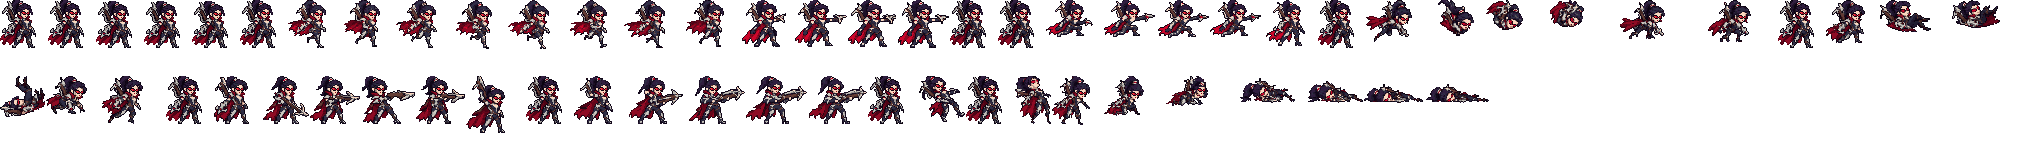
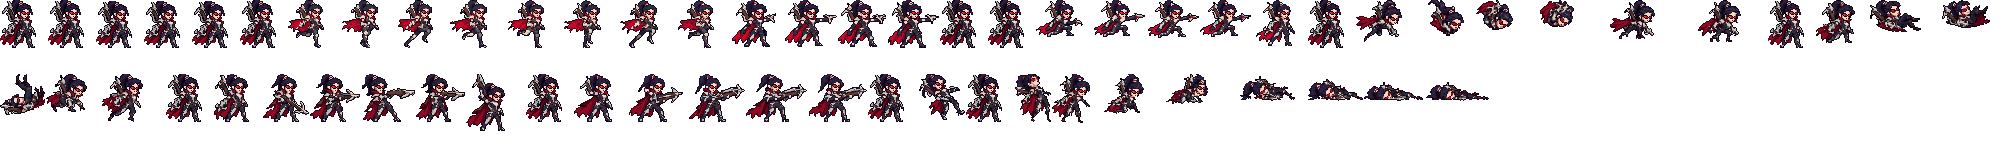
Vayne: the run redrawn - her legs change step; the effects pack
Codex's first run had the same legs in all 8 frames (the near leg
planted, the far one kicked up behind: "走路没有交叉步"). The redo pack
(MODEL_RUN_REDO.md) gave League's run with the two legs painted apart
(native_pose.py --parts on l_thigh / r_thigh) and a per-frame table;
Codex's redraw has the near leg planted in frames 8, 1, 2, the far one
in 4, 5, 6 and the knees crossing in 2-3 and 6-7, as League's does.
export_vayne.py exports it like the other strips (Codex's head joined
to the neck, the design's face pasted) and now stands the run on the
feet line too: the redrawn head sits 1-2 rows higher over the soles.

PROMPTS.md: the 14 effects for Codex (step 3).

Changed region(s): [[0.0, 0.0, 0.9885, 0.303], [0.0, 0.4545, 0.7414, 0.7879]]

diff --git a/tools/art/export_vayne.py b/tools/art/export_vayne.py
@@ -206,12 +206,11 @@ def export_cell(a, k, pal, bx, eye, pitch, tag, i, n, piv, target_x, design_c, f
     if tag in ("skill", "skill_back") and 1 <= i <= 3:
         target_bottom = 79
     target_ex = piv[0] - 7 if tag == "run" else round(target_x) - 9
-    target_ey = round(target_bottom - (bx[3] - 1 - ey) / pitch)
-    if tag == "run":
-        target_ey = 47 + (1 if i % 4 == 1 else 0)
-    tx, ty = target_ex - ex / pitch, target_ey - ey / pitch
-    if tag != "run":                    # every other body stands on the feet line
-        ty = target_bottom - (bx[3] - 1) / pitch
+    tx = target_ex - ex / pitch
+    # every body stands on the feet line - the run too since its redraw (vayne_run_redo): Codex's first export hung the
+    # run from its eyes (row 47, 48 in frames 2 and 6), and the redrawn run's head sits 1-2 rows higher over its soles,
+    # which that put under the feet line
+    ty = target_bottom - (bx[3] - 1) / pitch
     cell = np.zeros((96, 96, 4), np.uint8)
     for y in range(96):
         ry = (y - ty) * pitch

diff --git a/assets/source/vayne/PROMPTS.md b/assets/source/vayne/PROMPTS.md
@@ -1,0 +1,197 @@
+# 薇恩：给 Codex 的特效提示词（第 3 步）
+
+> **这一份是 14 张特效图。** 造型和动作已经做完并导入游戏（跑步的腿另外在重画），这一轮只画特效，不画人。
+> - 参考图 `refs/lol_fx_ref.png` 是英雄联盟里薇恩原皮自己的特效贴图（普攻的光斑和烟尾、圣银弩箭的三个环、闪避突袭的烟、恶魔审判撞墙的尘土、终极时刻的四角星地纹和蝙蝠），只在本地用，不要提交。英雄联盟的贴图大多是灰白的遮罩，游戏里才上色：**形状照它，颜色照下面的规则**。
+> - 颜色和画风对照 `design/vayne_design.png`（定稿造型，8 倍）；大小对照 `design/vayne_ingame.png`（游戏里的全部帧，3 倍，绿线是脚底线，蓝线是站位点）：薇恩从马尾顶到脚底 48 格，其他英雄约 35 格。
+> - 特效照下面第 1–14 条和"所有特效图的规则"画，每张一个 PNG，文件名和排版按每条写的来。
+> - 生图原稿（半透明边、格子比例不准）也可以交：Claude 会转成原尺寸条，再按技能范围定大小（交付里有 `manifest.json` 写明每帧区域 `assets[].frames[].rect` = [x, y, 宽, 高] 时按它切）。但每张请保持一行等宽的格子（比例按每条写的），不要标签、不要边框，背景透明（做不到就用纯黑 `#000000`）。
+> - 交回时附 `HANDOFF.md`（每张用了哪条提示词、画了几帧、有没有没做到的地方）。
+
+## 技能方案（每张图用在哪里）
+
+| 技能位 | 内容 | 用到的图 |
+|---|---|---|
+| 普攻 + 被动「暗夜猎手」+ W「圣银弩箭」 | 右前臂的腕弩射出银色弩箭；她的命中在目标身上叠圣银环，第 3 次命中爆开造成真实伤害（附近有敌方英雄时加移速，不用画） | `vayne_fx_bolt` · `vayne_fx_hit` · `vayne_fx_sb_ring1` · `vayne_fx_sb_ring2` · `vayne_fx_sb_proc` |
+| 技能 1 = Q「闪避突袭」 | 翻滚一下（出发的地方留一团烟），下一次普攻是强化箭，额外伤害 | `vayne_fx_q_roll` · `vayne_fx_q_bolt` · `vayne_fx_q_hit` |
+| 技能 2 = E「恶魔审判」 | 用背后的大弩射出重箭，打中英雄把他击退，落地时再受伤并眩晕 1 秒（英雄联盟里是撞到墙） | `vayne_fx_e_bolt` · `vayne_fx_e_hit` · `vayne_fx_e_stun` |
+| 大招 = R「终极时刻」 | 8 秒内攻击力提高、技能冷却变快，翻滚时隐身；期间击杀英雄会刷新 | `vayne_fx_r_cast` · `vayne_fx_r_aura` · `vayne_fx_r_refresh` |
+
+## 所有特效图的规则
+
+- 像素画：方块清楚、硬边、没有抗锯齿、没有模糊和柔光。**没有黑描边**（特效和角色相反）。
+- 颜色（四套，从她的造型取：银弩和银甲、暗夜猎手的夜色、红披风；按每条写的用）：
+  - 银光（主体）：`#FFFFFF`、`#EEF0FF`、`#C8CAE8`、`#9A9CC8`、`#6A6E9E`；
+  - 夜紫烟（暗部、烟、蝙蝠）：`#5A3C84`、`#3A2660`、`#22163C`、`#140C24`；
+  - 猩红（圣银弩箭爆开、重箭的光、终极时刻的刷新）：`#FFD0D6`、`#FF5A6E`、`#D8203E`、`#8F0B24`；
+  - 尘土（恶魔审判的撞击）：`#E0D2B0`、`#B09878`、`#7A6448`。
+- **飞行类特效一律朝右画，而且上下对称**：游戏会把它转到飞行方向，向左飞时整张图转 180°。
+- 命中、爆开、标记居中画，不旋转；地面上的形状按游戏的斜俯视角度画成扁的（宽约是高的 2 倍）。
+- 套在薇恩身上的特效（终极时刻）：格子中间留出一个空的人形位置（按那条写的比例），不要画人，**不能挡住身体和脸**，只画围在外面的光、烟和蝙蝠。
+- 背景透明（做不到时用纯黑 `#000000`）。不要网格线、边框、文字、编号。
+
+---
+
+## 特效（14 张）
+
+14 张特效的提示词都以同一段画风开头。大小写在每条里，导入时 Claude 按技能范围缩放（1 个游戏像素约等于 1000 距离单位）。
+
+### 1. `vayne_fx_bolt.png`：普攻弩箭（飞行），4 帧循环
+
+腕弩射出的一支银色弩箭：细长的钢杆、尖尖的银色箭头、尾部两片小尾羽，后面拖一小段夜紫色的烟尾（参考 BA_SmokeTip、BA_LensFlare）。约 12 格长、4 格高。
+
+```text
+Pixel art game VFX sprite sheet for a small tactics game: chunky square pixels, hard edges, no anti-aliasing, no outline, a silver light ramp (#FFFFFF, #EEF0FF, #C8CAE8, #9A9CC8, #6A6E9E) with night-purple smoke (#5A3C84, #3A2660, #22163C).
+Effect: a CROSSBOW BOLT flying to the RIGHT, 4 frames, a seamless loop, SYMMETRIC above and below the middle line: a thin steel shaft with a sharp bright silver arrowhead at 80% of the cell width and two small fletchings at its back end; behind it a short tapering night-purple smoke trail to the left edge of the cell; a tiny white glint on the arrowhead moves each frame and the trail's wisps change shape.
+Layout: one horizontal row of 4 equal cells, each 2 wide to 1 tall, image size 1024x128 (each cell 256x128); the bolt on the middle line of every cell, no gaps, no borders, no labels. Transparent background (if not possible: pure black #000000).
+```
+
+### 2. `vayne_fx_q_bolt.png`：闪避突袭的强化箭（飞行），4 帧循环
+
+翻滚后那一箭：比普攻箭大，整支箭裹着亮银白的光，箭头前有一个小十字光点，后面拖着一道更长、更浓的夜紫色烟尾，烟里闪着银色碎光（参考 Q_Glow、Q_WispySmoke）。约 18 格长、6 格高。
+
+```text
+Pixel art game VFX sprite sheet for a small tactics game: chunky square pixels, hard edges, no anti-aliasing, no outline, a silver light ramp (#FFFFFF, #EEF0FF, #C8CAE8, #9A9CC8, #6A6E9E) with night-purple smoke (#5A3C84, #3A2660, #22163C, #140C24).
+Effect: an EMPOWERED CROSSBOW BOLT flying to the RIGHT, 4 frames, a seamless loop, SYMMETRIC above and below the middle line: a bolt wrapped in bright silver-white light at 75% of the cell width, a small four-pointed white glint in front of its tip; behind it a long thick night-purple smoke trail swirling to the left edge, with small silver sparkles inside the smoke; the glint pulses and the smoke curls change each frame.
+Layout: one horizontal row of 4 equal cells, each 3 wide to 1 tall, image size 1536x128 (each cell 384x128); the bolt on the middle line of every cell, no gaps, no borders, no labels. Transparent background (if not possible: pure black #000000).
+```
+
+### 3. `vayne_fx_e_bolt.png`：恶魔审判的重箭（飞行），4 帧循环
+
+背后大弩射出的重箭：粗大的银色箭杆，宽大的三角形银箭头，箭头上一道猩红的反光，后面拖着一道粗的夜紫色烟尾和几缕猩红火星（参考 E_Glow、E_SmokeShape01）。约 24 格长、8 格高。
+
+```text
+Pixel art game VFX sprite sheet for a small tactics game: chunky square pixels, hard edges, no anti-aliasing, no outline, a silver light ramp (#FFFFFF, #EEF0FF, #C8CAE8, #9A9CC8, #6A6E9E), night-purple smoke (#5A3C84, #3A2660, #22163C, #140C24) and crimson accents (#FF5A6E, #D8203E).
+Effect: a HEAVY SILVER BOLT flying to the RIGHT, 4 frames, a seamless loop, SYMMETRIC above and below the middle line: a thick silver shaft with a broad triangular silver arrowhead at 80% of the cell width, a crimson glint along the arrowhead's edge; behind it a thick night-purple smoke trail with a few crimson sparks streaming to the left edge; the glint and the sparks move each frame.
+Layout: one horizontal row of 4 equal cells, each 3 wide to 1 tall, image size 1536x128 (each cell 384x128); the bolt on the middle line of every cell, no gaps, no borders, no labels. Transparent background (if not possible: pure black #000000).
+```
+
+### 4. `vayne_fx_hit.png`：普攻命中，5 帧
+
+弩箭打中目标：一个小小的银白色 V 形火花（参考 Hit_Spark），中心一下白光，几粒夜紫色的碎屑。约 12 格宽。
+
+```text
+Pixel art game VFX sprite sheet for a small tactics game: chunky square pixels, hard edges, no anti-aliasing, no outline, a silver light ramp (#FFFFFF, #EEF0FF, #C8CAE8, #9A9CC8) with night-purple specks (#5A3C84, #3A2660).
+Effect: a BOLT IMPACT, 5 frames: 1 a tiny white flash at the center; 2 a sharp silver V-shaped spark opening to the right with a white core, about 50% of the cell wide; 3 the spark breaks into a few silver chips flying outward, small purple specks; 4 the chips fly further and dim; 5 two or three faint specks.
+Layout: one horizontal row of 5 equal square cells, image size 1280x256; the impact centered in every cell, no gaps, no borders, no labels. Transparent background (if not possible: pure black #000000).
+```
+
+### 5. `vayne_fx_q_hit.png`：强化箭命中，6 帧
+
+强化箭打中：一颗亮白的四角星闪光，外面炸开一团夜紫色的烟，银色碎片往外飞。比普攻命中大。约 20 格宽。
+
+```text
+Pixel art game VFX sprite sheet for a small tactics game: chunky square pixels, hard edges, no anti-aliasing, no outline, a silver light ramp (#FFFFFF, #EEF0FF, #C8CAE8, #9A9CC8, #6A6E9E) with night-purple smoke (#5A3C84, #3A2660, #22163C).
+Effect: an EMPOWERED BOLT IMPACT, 6 frames: 1 a bright white four-pointed star flash at the center; 2 the star at full size (about 60% of the cell wide) with a silver ring around it, a puff of night-purple smoke bursting behind it; 3 the smoke puff spreads into round curls, silver shards flying outward; 4 the star fades, the curls drift outward and darken; 5 thin smoke wisps and a few silver chips; 6 faint purple specks.
+Layout: one horizontal row of 6 equal square cells, image size 1536x256; the impact centered in every cell, no gaps, no borders, no labels. Transparent background (if not possible: pure black #000000).
+```
+
+### 6. `vayne_fx_sb_ring1.png`：圣银弩箭第 1 层（目标身上），6 帧
+
+第一次命中后，目标胸口套上一个立着的银色圆环（参考 W_Ring_1：一个完整的细圆环，正对着看的人），圆环亮一下、停一会儿、慢慢淡掉。约 16 格宽。
+
+```text
+Pixel art game VFX sprite sheet for a small tactics game: chunky square pixels, hard edges, no anti-aliasing, no outline, a silver light ramp (#FFFFFF, #EEF0FF, #C8CAE8, #9A9CC8, #6A6E9E).
+Effect: a SILVER RING MARK standing upright and facing the viewer (a full circle, not flattened), 6 frames: 1 a small bright silver ring at the center, 40% of the cell wide; 2 the ring grows to 70% of the cell wide, 2 squares thick, a white highlight on its upper left; 3 the same ring, the highlight moved a little along it; 4 the same ring, slightly dimmer; 5 the ring thinner and darker silver; 6 faint broken arcs of the ring.
+Layout: one horizontal row of 6 equal square cells, image size 1536x256; the ring centered in every cell, no gaps, no borders, no labels. Transparent background (if not possible: pure black #000000).
+```
+
+### 7. `vayne_fx_sb_ring2.png`：圣银弩箭第 2 层（目标身上），6 帧
+
+第二次命中：两个套在一起的银环——外面一个完整的环，里面一个底部有小缺口的环（参考 W_Ring_2），一起亮起、停一会儿、淡掉。约 18 格宽。
+
+```text
+Pixel art game VFX sprite sheet for a small tactics game: chunky square pixels, hard edges, no anti-aliasing, no outline, a silver light ramp (#FFFFFF, #EEF0FF, #C8CAE8, #9A9CC8, #6A6E9E).
+Effect: TWO SILVER RING MARKS standing upright and facing the viewer, one inside the other, 6 frames: 1 two small bright rings at the center; 2 they grow: the outer ring a full circle at 80% of the cell wide, the inner ring at 55% with a small gap at its bottom, both 2 squares thick, white highlights; 3 the same, the highlights moved a little; 4 the same, slightly dimmer; 5 both rings thinner and darker; 6 faint broken arcs.
+Layout: one horizontal row of 6 equal square cells, image size 1536x256; centered in every cell, no gaps, no borders, no labels. Transparent background (if not possible: pure black #000000).
+```
+
+### 8. `vayne_fx_sb_proc.png`：圣银弩箭第 3 下（爆开，真实伤害），7 帧
+
+第三次命中：三个银环（第三个底部有箭头形的缺口，参考 W_Ring_3）一下子收紧到中心，"锵"地爆出一团白光和猩红、银色的碎片（真实伤害）。约 26 格宽。
+
+```text
+Pixel art game VFX sprite sheet for a small tactics game: chunky square pixels, hard edges, no anti-aliasing, no outline, a silver light ramp (#FFFFFF, #EEF0FF, #C8CAE8, #9A9CC8, #6A6E9E) with crimson accents (#FFD0D6, #FF5A6E, #D8203E, #8F0B24).
+Effect: a SILVER BOLTS BURST, 7 frames: 1 three nested silver rings standing upright facing the viewer, the outer at 90% of the cell wide, the innermost with an arrow-shaped notch at its bottom; 2 the three rings shrink toward the center; 3 they snap together into one bright white point with a crimson ring around it; 4 a big white-and-crimson starburst, about 80% of the cell wide, crimson and silver shards flying out; 5 the burst breaks up, the shards fly further; 6 the shards dim to dark crimson; 7 faint specks.
+Layout: one horizontal row of 7 equal square cells, image size 1792x256; centered in every cell, no gaps, no borders, no labels. Transparent background (if not possible: pure black #000000).
+```
+
+### 9. `vayne_fx_q_roll.png`：翻滚的烟（地面，留在出发的地方），6 帧
+
+她翻滚出去时，原地腾起一团贴着地面的夜紫色烟（参考 Q_WispySmoke、Taunt_Flecks），里面夹着几点银色的亮屑，往两边散开、淡掉。约 28 格宽、14 格高。
+
+```text
+Pixel art game VFX sprite sheet for a small tactics game: chunky square pixels, hard edges, no anti-aliasing, no outline, seen from a slightly top-down game camera, night-purple smoke (#5A3C84, #3A2660, #22163C, #140C24) with silver flecks (#FFFFFF, #C8CAE8, #9A9CC8).
+Effect: a TUMBLE SMOKE PUFF on the ground, 6 frames: 1 a small puff of night-purple smoke at the bottom middle of the cell; 2 the smoke spreads sideways into a low flat cloud (twice as wide as tall), a few silver flecks inside; 3 the cloud at 90% of the cell width, round curls on top; 4 the cloud thins, the curls drift up and apart; 5 thin wisps; 6 a few faint purple specks.
+Layout: one horizontal row of 6 equal cells, each 2 wide to 1 tall, image size 1536x128 (each cell 256x128); the cloud centered horizontally and sitting on the bottom of every cell, no gaps, no borders, no labels. Transparent background (if not possible: pure black #000000).
+```
+
+### 10. `vayne_fx_e_hit.png`：重箭命中，5 帧
+
+重箭打中英雄：一下很亮的银白闪光，一圈夜紫色的冲击波，几片猩红和银色的碎片。比强化箭命中更重。约 24 格宽。
+
+```text
+Pixel art game VFX sprite sheet for a small tactics game: chunky square pixels, hard edges, no anti-aliasing, no outline, a silver light ramp (#FFFFFF, #EEF0FF, #C8CAE8, #9A9CC8, #6A6E9E), night-purple (#5A3C84, #3A2660, #22163C) and crimson accents (#FF5A6E, #D8203E).
+Effect: a HEAVY BOLT IMPACT, 5 frames: 1 a big bright white flash at the center, about 40% of the cell wide; 2 a thick night-purple shock ring around the flash at 70% of the cell width, silver and crimson shards bursting out; 3 the ring at 95% of the cell width and thinner, the shards flying further; 4 the ring breaks into dark purple arcs; 5 faint specks.
+Layout: one horizontal row of 5 equal square cells, image size 1280x256; centered in every cell, no gaps, no borders, no labels. Transparent background (if not possible: pure black #000000).
+```
+
+### 11. `vayne_fx_e_stun.png`：落地撞击 + 眩晕（1 秒），8 帧
+
+被击退的英雄落地时"砰"地撞上（英雄联盟里是撞墙，参考 E_tar_terrain_dust、E_terrain_dirt）：第 1–4 帧在身体中间炸开一团尘土和碎石、一下银色闪光；第 5–8 帧（循环）头顶转着三颗银色小星星（眩晕）。约 20 格宽、24 格高。
+
+```text
+Pixel art game VFX sprite sheet for a small tactics game: chunky square pixels, hard edges, no anti-aliasing, no outline, dust (#E0D2B0, #B09878, #7A6448) with a silver light ramp (#FFFFFF, #EEF0FF, #C8CAE8, #9A9CC8).
+Effect: a SLAM IMPACT then a daze, 8 frames: 1 a white-silver flash at 55% of the cell height; 2 a burst of dust clouds and small stone chips around it, about 80% of the cell wide; 3 the dust spreads and the chips fall; 4 the dust fades to thin puffs; 5-8 (a seamless loop) three small silver five-pointed stars with white centers circling on a flat elliptical path (twice as wide as tall) at 15% of the cell height (above a head), each frame a quarter turn, the stars at the back smaller and darker.
+Layout: one horizontal row of 8 equal cells, each 6 wide to 7 tall, image size 1920x280 (each cell 240x280); centered horizontally, no gaps, no borders, no labels. Transparent background (if not possible: pure black #000000).
+```
+
+### 12. `vayne_fx_r_cast.png`：终极时刻发动（在她身上），7 帧
+
+发动大招：她身后猛地亮起一颗巨大的银白四角星光（参考 R_Ground_03、R_LensFlare），一群夜紫色的小蝙蝠从她身边往外飞散（参考 common_Bats32），脚下一圈银光的地纹一闪。约 44 格宽、56 格高，中间留空人形。
+
+```text
+Pixel art game VFX sprite sheet for a small tactics game: chunky square pixels, hard edges, no anti-aliasing, no outline, a silver light ramp (#FFFFFF, #EEF0FF, #C8CAE8, #9A9CC8, #6A6E9E) with night-purple bats and smoke (#5A3C84, #3A2660, #22163C, #140C24).
+Effect: a FINAL HOUR burst around a standing figure (leave a figure-shaped empty space in the middle of the cell, about 55% of the cell width and 75% of the cell height, feet at 92% of the cell height - do NOT draw the figure), 7 frames: 1 a bright white point behind the figure's chest; 2 a huge silver-white four-pointed star flare bursts out from behind the figure, its long rays reaching up, down, left and right to the cell's edges (the figure's space stays empty in front of it); 3 the flare at full size, a flat ring of silver light flashes on the ground at the feet (an ellipse twice as wide as tall), a flock of small night-purple bats bursts out from around the figure; 4 the bats fly outward in all directions, the flare's rays shorten; 5 the bats reach the cell edges, the flare fades to pale silver; 6 a few bats and fading rays; 7 faint silver specks.
+Layout: one horizontal row of 7 equal cells, each 3 wide to 4 tall, image size 2016x384 (each cell 288x384); the figure space and the ground ring centered horizontally, no gaps, no borders, no labels. Transparent background (if not possible: pure black #000000).
+```
+
+### 13. `vayne_fx_r_refresh.png`：终极时刻刷新（击杀，在她身上），5 帧
+
+大招期间击杀英雄、终极时刻刷新：她身上一闪猩红的光环往外扩，胸口高度一颗小小的银色四角星，几点猩红火星往上飘。约 32 格宽、40 格高，中间留空人形。
+
+```text
+Pixel art game VFX sprite sheet for a small tactics game: chunky square pixels, hard edges, no anti-aliasing, no outline, crimson (#FFD0D6, #FF5A6E, #D8203E, #8F0B24) with a silver light ramp (#FFFFFF, #EEF0FF, #C8CAE8).
+Effect: a FINAL HOUR REFRESH around a standing figure (leave a figure-shaped empty space in the middle of the cell, about 55% of the cell width and 75% of the cell height - do NOT draw the figure), 5 frames: 1 a small silver four-pointed star glint beside the figure's chest (at 40% of the cell height, on the right edge of the figure's space); 2 a thin crimson ring expands around the whole figure space, the star glint at full size; 3 the ring at the cell's edges, crimson sparks rising along both sides of the figure; 4 the sparks rise to above the figure's head and dim; 5 faint crimson specks.
+Layout: one horizontal row of 5 equal cells, each 3 wide to 4 tall, image size 1440x384 (each cell 288x384); centered horizontally, no gaps, no borders, no labels. Transparent background (if not possible: pure black #000000).
+```
+
+### 14. `vayne_fx_r_aura.png`：终极时刻（在她身上，8 秒），4 帧循环
+
+大招期间她脚下一个扁的银色四角星地纹（参考 R_Ground_03），身体两侧往上飘着银色的光点和几缕夜紫色的蝙蝠形烟丝，**不挡脸和身体**。4 帧循环。约 40 格宽、54 格高，中间留空人形。
+
+```text
+Pixel art game VFX sprite sheet for a small tactics game: chunky square pixels, hard edges, no anti-aliasing, no outline, a silver light ramp (#FFFFFF, #EEF0FF, #C8CAE8, #9A9CC8, #6A6E9E) with night-purple wisps (#5A3C84, #3A2660, #22163C).
+Effect: a FINAL HOUR AURA around a standing figure (leave a figure-shaped empty space in the middle of the cell, about 55% of the cell width and 75% of the cell height, feet at 92% of the cell height - do NOT draw the figure), 4 frames, a seamless loop: a flat silver four-pointed star sigil on the ground at the feet (seen from a slightly top-down camera: twice as wide as tall), its points glinting in turn; small silver motes rising along both sides of the empty figure from the feet to above the head; two or three thin night-purple wisps shaped like small bats drifting up beside the figure; the motes and wisps move up each frame; nothing crosses the middle of the figure.
+Layout: one horizontal row of 4 equal cells, each 3 wide to 4 tall, image size 1152x384 (each cell 288x384); the ground sigil centered horizontally at 92% of the cell height, no gaps, no borders, no labels. Transparent background (if not possible: pure black #000000).
+```
+
+---
+
+## Claude 导入时的对应关系（给 Claude 看）
+
+| 特效图 | 绑定 | 大小（游戏像素） |
+|---|---|---|
+| `vayne_fx_bolt` | `view_projectiles` `league_vayne_bolt`（普攻，朝飞行方向转） | 12 × 4 |
+| `vayne_fx_q_bolt` | `view_projectiles` `league_vayne_q_bolt`（强化箭） | 18 × 6 |
+| `vayne_fx_e_bolt` | `view_projectiles` `league_vayne_e_bolt`（重箭） | 24 × 8 |
+| `vayne_fx_hit` | `view_effects` `league_vayne_hit`（普攻命中，跟随） | 12 |
+| `vayne_fx_q_hit` | `league_vayne_q_hit`（强化箭命中） | 20 |
+| `vayne_fx_sb_ring1` | `league_vayne_sb_ring1`（第 1 层，目标胸口） | 16 |
+| `vayne_fx_sb_ring2` | `league_vayne_sb_ring2`（第 2 层） | 18 |
+| `vayne_fx_sb_proc` | `league_vayne_sb_proc`（第 3 下，真实伤害） | 26 |
+| `vayne_fx_q_roll` | `league_vayne_q_roll`（CasterViewEffect，地面，不跟随） | 28 × 14 |
+| `vayne_fx_e_hit` | `league_vayne_e_hit`（重箭命中） | 24 |
+| `vayne_fx_e_stun` | `league_vayne_e_stun`（落地撞击 + 头顶眩晕星循环 1 秒） | 20 × 24 |
+| `vayne_fx_r_cast` | `league_vayne_r_cast`（CasterViewEffect，她身上） | 44 × 56 |
+| `vayne_fx_r_refresh` | `league_vayne_r_refresh`（CasterViewEffect，她身上） | 32 × 40 |
+| `vayne_fx_r_aura` | `view_buffs` `league_vayne_r`（终极时刻 8 秒） | 40 × 54 |

diff --git a/assets/source/vayne/MODEL_RUN_REDO.md b/assets/source/vayne/MODEL_RUN_REDO.md
@@ -1,0 +1,68 @@
+# 薇恩：重画跑步的腿（给 Codex 的提示词）
+
+> 上次交回的 9 张动作条已经导入游戏，**只有跑步要重画**：8 帧的腿一模一样——前面那条腿（近腿）踩地、后面那条腿（远腿）往后踢——两条腿从来没有交换，也没有从身体下面交叉经过，看起来像一直单脚往前蹦（用户：「走路没有交叉步」）。英雄联盟的跑步每 4 帧换一次腿，第 2–3 帧和第 6–7 帧两条腿在身体下面交叉。
+> - **腿以上都不用改**：头、头发、马尾、脸和墨镜、披风、身体、两把弩、大小（站着 48 格）、每帧在格子里的位置、头每帧在同一处（上下最多 1 格）、8 帧 × 125 毫秒、排版（4 列 × 2 行，3072×1536），全部照 `vayne_run_current.png`（你上次交回的跑步）。**从胯往下的两条腿按下面的表和 `guide/lol_run_legs.png` 重画**；手臂可以跟着腿反向小幅摆动（最多 2 格），披风照常往后飘。
+> - **这次不要清头、不要贴头**：上次的导出先把原稿里画的头发、脸连同下巴下面的脖子和立领一起清掉，再贴造型图的整颗头，结果头像贴纸一样和身体分开了（用户：「头和身体有点分离」）。这次整个人一起画、一起导出，头和脖子、立领连在一起；造型图的脸由 Claude 导入时贴（它会在你画的脸上找位置）。
+
+## 附图
+
+| 文件 | 内容 | 用在 |
+|---|---|---|
+| `design/vayne_design.png` | 定稿造型，放大 8 倍 | 第一张附图：腿的材质（深色紧身衣、银色护膝、黑色高跟靴、银色靴尖）和像素风格 |
+| `vayne_run_current.png` | 你上次交回的跑步（8 帧，放大 8 倍） | 第二张附图：**胯以上照它**，只换腿 |
+| `guide/lol_run_legs.png` | 英雄联盟的跑步，同样的 8 帧、同样的格子：**近腿橙色**（画在前面），**远腿蓝色**（在后面），其余灰色 | 第三张附图：**每帧两条腿的位置照它** |
+| `guide/lol_run_legs_game.png` | 同一张按游戏尺寸取的方块（一格就是游戏里一个像素） | 看腿在游戏尺寸下有多粗、多长 |
+| `guide/run_legs_now_vs_lol.png` | 逐帧对比：上排你上次的腿（错），下排英雄联盟的腿（对） | 看错在哪 |
+| `pose/lol_pose_run.png` | 同一帧的高清渲染（上次也给过） | 身体动作 |
+| `now/vayne_now_run.png` | 英雄联盟原版按游戏尺寸取色（上次也给过） | 帧数、时机、站位 |
+| `guide/vayne_guide_run.png` | 格子、站位点（蓝十字）、脚底线（红线）和禁区 | 对位用，不要画进图里 |
+| `vayne_cells.json` | 每帧站位点和时长 | 对位 |
+
+## 每帧的腿（最重要）
+
+近腿 = 参考图里的橙色腿，画在前面（护膝朝着看的人、颜色亮一点）；远腿 = 蓝色腿，在后面（暗一点，被近腿和披风挡住一部分）。**每帧都有一只脚踩在脚底线上。**
+
+| 帧 | 近腿（橙） | 远腿（蓝） |
+|---|---|---|
+| 1 | 踩地：直的，在身体下面，鞋底在脚底线上 | 往后踢：大腿朝后，膝盖弯成直角，脚跟抬起朝向披风 |
+| 2 | 还踩着地，稍微移到身体后面 | 往前摆：从身体下面经过，膝盖弯着——**两个膝盖在这里交叉** |
+| 3 | 往后伸直蹬地，脚尖在脚底线上 | 在前面：膝盖抬到身前，小腿往下 |
+| 4 | 离地往后收，膝盖开始弯 | 落地：在前面伸直，鞋底踩到脚底线 |
+| 5 | 往后踢：膝盖弯成直角，脚跟抬起（第 1 帧换了一条腿） | 踩地：直的，在身体下面 |
+| 6 | 往前摆：从身体下面经过，**画在远腿前面**——两个膝盖交叉 | 还踩着地，稍微移到身体后面 |
+| 7 | 在前面：膝盖抬到身前，小腿往下 | 往后伸直蹬地，脚尖在脚底线上 |
+| 8 | 落地：在前面伸直，鞋底踩到脚底线 | 离地往后收，膝盖开始弯；接回第 1 帧 |
+
+所以：第 8、1、2 帧近腿踩地，第 4、5、6 帧远腿踩地，第 3、7 帧两条腿前后交叉换位。
+
+## 提示词（附三张图：`design/vayne_design.png`、`vayne_run_current.png`、`guide/lol_run_legs.png`）
+
+```text
+Three attached images. FIRST: the approved, final pixel-art design of this character at 8x (every pixel an 8x8 block) - her colors, materials and pixel style. SECOND: her current 8-frame run at 8x in a 4x2 grid of 96x96-square cells - keep EVERYTHING above the hips exactly as drawn there (head, hair, ponytail, face, glasses, collar, cape, torso, arms, both crossbows, size and place in each cell). THIRD: the same 8 frames of the original run in the same cells, her legs painted apart: the NEAR leg ORANGE (in front, toward the viewer), the FAR leg BLUE (behind), the rest grey - copy the position of both legs in every frame from it.
+The problem to fix: in the SECOND image all 8 frames have the same legs (the near leg planted, the far leg kicked up behind), so she never changes step. A run swaps the legs: frames 8, 1, 2 the near leg is planted; frames 4, 5, 6 the far leg is planted; in frames 2-3 and 6-7 the legs cross under her body.
+Frame by frame: 1 near leg planted straight under her, far leg kicked up behind with the knee bent 90 degrees; 2 near leg still planted, a little behind her, far leg swinging forward under her body, knees passing each other; 3 far leg in front with the knee lifted, near leg stretched back pushing off with its toe on the ground; 4 far leg landing straight in front, near leg lifting behind; 5 far leg planted straight under her, near leg kicked up behind with the knee bent 90 degrees (frame 1 with the other leg); 6 far leg still planted, near leg swinging forward under her body in front of the far leg, knees passing each other; 7 near leg in front with the knee lifted, far leg stretched back pushing off; 8 near leg landing straight in front, far leg lifting behind - it flows into frame 1.
+Draw her legs in the FIRST image's materials: the black-navy bodysuit, silver knee guards, black heeled boots with silver toes; the near leg in front of the far one, lighter; the far leg darker, partly behind the near leg and the cape. One foot touches the feet line in every frame; the arms may swing a little against the legs (at most 2 squares); the cape keeps streaming behind her.
+Pixel rules: exactly the FIRST image's pixel size (48 squares tall standing), every pixel one crisp 8x8 square on one 8-px grid, no anti-aliasing, no blur, no semi-transparency, ONLY the FIRST image's 26 colors, a 1-square near-black outline round the silhouette and each material's own dark shade inside it, big flat areas, no dithering or noise. Draw the whole character in one piece: the head stays joined to the neck and the collar (do not cut it out or paste another head on).
+Feet line: the lowest row of her feet is square row 81 of each cell; nothing from row 82 down. Layout: exactly like the SECOND image - 4 columns x 2 rows of 96x96-square cells, 3072x1536 pixels, frame N in the same cell; transparent background (if not possible: solid #FF00FF magenta). No grid lines, labels or guide marks.
+```
+
+## 导出（和上次一样，只改贴头那步）
+
+1. 对齐网格、换成造型图色板、按站位点放回格子、脚底线以下清空、放大 8 倍输出 `vayne_run.png`——和上次一样。
+2. **不要做上次的第 4 步**（清掉头周围的头发、脸、紧身衣颜色再贴整颗头）：原稿里画的头和脖子、立领原样保留。
+3. 墨镜颜色：色板里去掉 `#F8303C`、`#B0102A` 这一步照旧（原稿的镜片会变成别的红，没关系，Claude 会贴回造型图的脸）。
+
+## 交回（`vayne_run_redo.zip`）
+
+- `raw/run.png`：生图模型的原始输出（和上次 `strips_raw/run.png` 同样的格式：品红底，4 列 × 2 行）；
+- `strip_eyes_run.json`：8 帧里墨镜中心在 `raw/run.png` 上的坐标，`[[x, y], ...]`（和上次 `strip_eyes.json` 的跑步那一行一样）；
+- `vayne_run.png`：你导出的跑步（放大 8 倍，3072×1536，不清头、不贴头）；
+- `HANDOFF.md`：用了哪条提示词、哪里没做到。
+
+## 交回前自查
+
+- [ ] 第 8、1、2 帧近腿（前面那条）踩地，第 4、5、6 帧远腿踩地，第 3、7 帧两条腿交叉换位——和 `guide/lol_run_legs.png` 逐帧对过；
+- [ ] 每帧都有一只脚在脚底线上，脚底线以下没有任何像素；
+- [ ] 胯以上和 `vayne_run_current.png` 一样（头、披风、弩、位置），头每帧在同一处（上下最多 1 格），首尾接得上；
+- [ ] 头和脖子、立领连在一起，没有被切开、没有贴另一颗头；
+- [ ] 每个像素是严格对齐的 8×8 纯色块，透明度只有 0 和 255，只用造型图的颜色。

diff --git a/README.md b/README.md
@@ -1054,19 +1054,19 @@ python tools/art/preview_briar.py
 ```bash
 python tools/lol/extract_vayne.py --lol "D:\WeGameApps\lol" --vgmstream "<vgmstream-cli.exe 路径>"
 python tools/lol/native_pose.py assets/source/vayne/poses.json --out <渲染文件夹>   # 动作参考帧
-python tools/art/export_vayne.py <Codex 的原稿文件夹> <Codex 的动作交付文件夹> <输出文件夹>   # 从原稿重新导出：保留 Codex 画的头，只贴定稿的脸
+python tools/art/export_vayne.py <Codex 的原稿文件夹> <Codex 的动作交付文件夹> <输出文件夹>   # 从原稿重新导出：保留 Codex 画的头，只贴定稿的脸（跑步用重画的原稿和墨镜坐标）
 python tools/art/tidy_vayne.py <输出文件夹>   # 角色图：清描边和散点、站位对齐，写进 assets/source/native/
 python tools/art/import_native.py --hero vayne
 ```
 
-美术（造型的提示词见 [`assets/source/vayne/MODEL_PROMPTS.md`](assets/source/vayne/MODEL_PROMPTS.md)，9 条动作的见 [`MODEL_STRIPS.md`](assets/source/vayne/MODEL_STRIPS.md)）：
+美术（造型的提示词见 [`assets/source/vayne/MODEL_PROMPTS.md`](assets/source/vayne/MODEL_PROMPTS.md)，9 条动作的见 [`MODEL_STRIPS.md`](assets/source/vayne/MODEL_STRIPS.md)，重画跑步的见 [`MODEL_RUN_REDO.md`](assets/source/vayne/MODEL_RUN_REDO.md)，特效的见 [`PROMPTS.md`](assets/source/vayne/PROMPTS.md)）：
 - 造型：用户的图是约 3 像素一格的像素风插画（约 500 格高），不能直接缩。第一版包让 Codex 画成约 1.7 倍（要 72 格），它画了 96 格和 76 格，再缩到游戏尺寸时墨镜、银边和护甲都碎成了点；用户要求照 main 上卢锡安重做成功的方式重做（细节好、不模糊）：第二版包让 Codex 直接在游戏尺寸画（头顶到脚底约 38 格，最多 24 色），交回的图按它自己的格子读回像素（`.claude/skills/tfm2-hero-mod/scripts/regrid.py`），不缩小。这套做法写进了 skill 的 art-spec（"A design drawn at game size"）。A 读回 63×50、B 53×40，都比包里的英雄大；用户在「原样 / 缩到 48 行」四版里选了 B 缩到 48 行：只在脸以外删了 5 行 4 列，脸原样保留（清杂点时被当成孤立色的一格嘴补回来），两片镜片换成只在镜片上用的两种红（`#F8303C`、`#B0102A`）。
 - 动作参考（`poses.json`）：镜头 yaw 40、pitch 25，不镜像（背后的大弩和披风在画面左边，和用户的图一样），头 2.3、腿 0.8、头发 0.6，高度 42。待机 `Vayne_idle1`；移动照英雄联盟的 `Vayne_run`（2 秒的文件里是两圈一样的 1 秒，8 帧 × 125 ms）；普攻 `Vayne_attack1`，强化普攻 `Vayne_tumble_attack1`，Q 往前 `Vayne_spell1`（原版是前空翻，这里头最多转四分之一），Q 往后是同一段倒着放，E `Vayne_spell3`（从背后抽出大弩平端发射），R 没有施法动画，用 E 的抽弩接终极时刻的持弩站姿 `Vayne_ult_idle1`。
 - 导出（`export_vayne.py`）：Codex 按定稿画了 9 条（57 帧）。它自己的导出脚本（`VayneExport.cs`）在贴定稿的整颗头之前，先把原稿里眼睛周围的头发、皮肤、紧身衣颜色全清掉（眼睛上方 30 行、下方 6 行，连下巴下面的脖子和立领），头像贴纸一样浮在身上（用户：「头和身体有点分离」「不协调」）；它标的眼睛位置有几帧偏了最多 10 格（E 出箭那帧、死亡），头贴到了身体别处，清除范围还切掉了脸前面的前臂（强化普攻出箭那帧的腕弩像飞出了手）。按它的脚本从原稿重新导出：采样、位置、格子、色板全一样（头以外逐格对过，每帧差 0–2 格），但什么都不清，只把定稿的脸（墨镜、脸、侧脸轮廓、嘴，9×8 格）贴在原稿自己画的脸上（在标记附近 10 格内按颜色找，直接贴在标记处会在旁边留下原稿的第二张脸）；往后仰倒的死亡第 1 帧保留原稿的脸。头发、马尾、脖子和立领都是原稿的，跟着身体动。
 - 整理（`tidy_vayne.py`）：比定稿噪的地方在游戏像素上修：离开身体的散点（最多 4 格、只斜角相连）去掉，身体里最多 6 格的小透明洞补上，轮廓上亮的格子（银、皮肤、亮红、棕，Codex 每帧 17–40%，定稿 5%）改成描边色（在剪影里面改，不变胖；头发和紧身衣的深色边照定稿留着），描边里面第二圈黑换成材质自己的暗色，孤立杂色格换成周围的颜色；跑步整体比地面高 1–2 行，按帧放回脚底线。贴上的脸和定稿帧不动。站位：动作包的待机条是按和英雄联盟待机轮廓重叠最多摆的，她的披风和背后的大弩把人往左拉了 9 格（Codex 的交接里也指出镜片比英雄联盟的头关节偏左 9 格），所有帧的站位点一起挪 9 格，让双脚中点踩在站位点上。
 - 导入：待机 6 帧是同一张，第 3–5 帧从小腿（站位点下 5 行，轮廓只变 4 格）往上下沉一格呼吸（`BOB`），靴子不动；背后的大弩是每帧的最高处，所以按镜片对齐头的位置（`EYES`，镜片红只用在镜片上），待机和移动每帧镜片都在站位点右边 1 格。头像截取点 (2, −42)，在头顶（马尾更高，`tfm2_ase.py face` 按最高点建议的 (−5, −46) 落在马尾尖上，不用）。
 - 结果：26 色，和右边像素同色的比例 27%（原版英雄 18%–46%）。待机每帧 1133 个不透明像素（卢锡安 983、贝蕾亚 930），多出来的主要是披风和大弩。
-- 待改：移动 8 帧的腿一模一样（近腿踩地、远腿后踢，用户：「走路没有交叉步」），英雄联盟的跑步每半圈换一次腿、中间两个膝盖在身体下面交叉。跑步交给 Codex 重画腿（参考用 `native_pose.py --parts` 把左右腿分开上色渲染，逐帧写明哪条腿踩地），交回后重新导入。
+- 移动（重画）：第一版 8 帧的腿一模一样——近腿踩地、远腿后踢，两条腿从不交换（用户：「走路没有交叉步」）；英雄联盟的跑步每半圈换一次腿，中间两个膝盖在身体下面交叉。动作包的跑步参考只有站位点和脚底线，提示词只写了"1–4 帧一步、5–8 帧另一步"。重画包（提示词见 [`MODEL_RUN_REDO.md`](assets/source/vayne/MODEL_RUN_REDO.md)）用 `native_pose.py --parts` 把英雄联盟跑步的左右腿分开上色渲染（`"parts"` 选 `l_thigh`、`r_thigh` 两条骨骼链：近腿橙、远腿蓝），8 倍和游戏尺寸各一张，逐帧写明哪条腿踩地、哪帧交叉；胯以上照导入后的版本（头和脖子连着的那版），不清头、不贴头。Codex 交回：第 8、1、2 帧近腿踩地，第 4、5、6 帧远腿踩地，第 2–3、6–7 帧两腿交叉换位，和英雄联盟逐帧对得上。导出用它的原稿和墨镜坐标（其他 8 条仍是第一次交付的原稿），跑步改成和其他动作一样按脚底定位：重画后头比鞋底高 1–2 格，按眼睛的行定位时鞋底落到脚底线下面。头的横向位置 8 帧一样，上下起伏 1 格。
 
 ## 修正（0.15.0）：`WithSelf` 不是"只给自己"
 

diff --git a/.claude/skills/tfm2-hero-mod/references/art-spec.md b/.claude/skills/tfm2-hero-mod/references/art-spec.md
@@ -497,7 +497,9 @@ The route used for Garen in TFM2-League-Heroes: prompts in `assets/source/<hero>
   A guide that shows it: `native_pose.py --parts` with the spec's `"parts": [{"joints": "^l_thigh$"}, {"joints":
   "^r_thigh$"}]` paints the two legs apart (the near one is drawn over the far one where they overlap); give them to
   Codex in two colours (near orange, far blue, the rest grey) at 8x and at game size on the run's guide, with a
-  per-frame table of which leg is planted, passing or kicked back.
+  per-frame table of which leg is planted, passing or kicked back (`assets/source/vayne/MODEL_RUN_REDO.md`). Codex's
+  redraw from it came back right in one round: the near leg planted in frames 8, 1, 2, the far one in 4, 5, 6, the
+  knees crossing in 2-3 and 6-7, the near leg told apart by its brighter knee guard.
 - **Effect anchors.** Effect and buff frames are drawn centred on the unit's pivot, 11.5 px above
   the feet (base: `levelup_effect` ring at +9..+16, `shield_receive_effect` bubble -22..+13).
   Ground rings at about +10, hits and shields at -3..-6, overhead marks around -25. Time the
